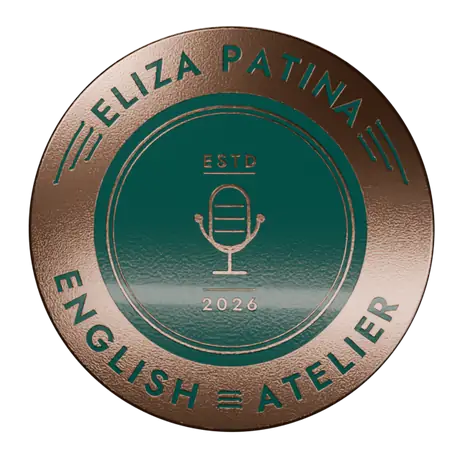
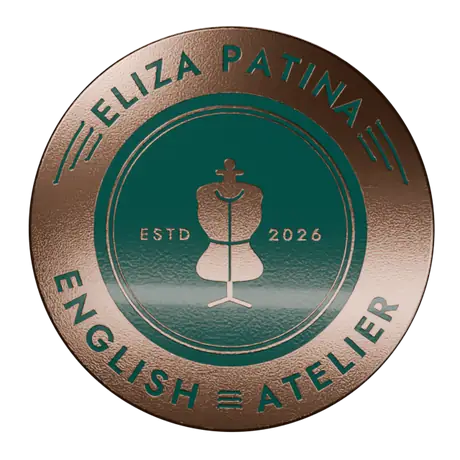
fix: 「一般」に表記を統一、翻訳ガイドの重なりを修正、オープニングをゆっくりに、エンブレム中央をトルソーに (#17)
- コースの名前を「一般」に統一
- 使い方ガイド：照らす場所が説明の札に隠れるときだけ、札を画面の上へ
- オープニングを約5.5秒に（回り込みが見えるように、ひとことを読める間だけ止める）
- エンブレム中央をマイクから仕立て屋のトルソーに（Blender で再レンダリング）

Claude-Session: https://claude.ai/code/session_01WAw9FbA9Try3Ma8VPoG1QR

Changed region(s): [[0.3043, 0.3348, 0.7, 0.7]]

diff --git a/src/components/Opening.tsx b/src/components/Opening.tsx
@@ -22,13 +22,14 @@ function preload(src: string): Promise<void> {
  * 起動時のオープニング。ブランドの考え（新しい銅 → 使い込んで緑青）をそのまま動きにする。
  * 1. 磨いたばかりの銅に緑青色のエナメルを埋めたエンブレム（ヴィンテージの看板の組み方）が、斜めから正面へ回り込む
  * 2. 年月を経た姿（銅のくすみ・酸化の斑点）が左上から広がり、光がひと筋流れる
- * 3. 線とひとことが出て、アプリへ
+ * 3. 線とひとことが出て、読める間だけ止まってから、アプリへ（全体で約5.5秒）
  * タップでいつでも飛ばせる。「視差効果を減らす」の設定のときは動かさずに短く見せる。
  */
 export function Opening({ onDone }: { onDone: () => void }) {
   const root = useRef<HTMLDivElement>(null)
   const medal = useRef<HTMLDivElement>(null)
   const copper = useRef<HTMLImageElement>(null)
+  const copperNext = useRef<HTMLImageElement>(null)
   const patina = useRef<HTMLDivElement>(null)
   const sheen = useRef<HTMLDivElement>(null)
   const line = useRef<HTMLDivElement>(null)
@@ -60,13 +61,13 @@ export function Opening({ onDone }: { onDone: () => void }) {
       ])
       const { gsap } = await import('gsap')
       if (!alive) return
-      const els = { r: root.current!, m: medal.current!, c: copper.current!, p: patina.current!, s: sheen.current!, l: line.current!, t: tagline.current! }
+      const els = { r: root.current!, m: medal.current!, c: copper.current!, n: copperNext.current!, p: patina.current!, s: sheen.current!, l: line.current!, t: tagline.current! }
 
       if (reduced) {
         gsap.set([els.m, els.p, els.l, els.t], { opacity: 1, clearProps: 'transform' })
         els.p.style.setProperty('--r', '160%')
         const tl = gsap.timeline({ onComplete: finish })
-        tl.to(els.r, { opacity: 0, duration: 0.4, delay: 1.1 })
+        tl.to(els.r, { opacity: 0, duration: 0.4, delay: 2 })
         kill = () => void tl.kill()
         skipRef.current = () => {
           tl.kill()
@@ -78,35 +79,39 @@ export function Opening({ onDone }: { onDone: () => void }) {
       const frame = { f: 0 }
       let shown = -1
       const tl = gsap.timeline({ defaults: { ease: 'power3.out' }, onComplete: finish })
-      tl.fromTo(els.m, { opacity: 0, y: 22, scale: 0.86 }, { opacity: 1, y: 0, scale: 1, duration: 1.0 }, 0)
-        // 3D の連番をめくって、メダルを斜めから正面へ回す
+      // 先に姿を見せてから回す（回り込みが見えるように）
+      tl.fromTo(els.m, { opacity: 0 }, { opacity: 1, duration: 0.8, ease: 'power2.out' }, 0)
+        .fromTo(els.m, { y: 26, scale: 0.86 }, { y: 0, scale: 1, duration: 1.6 }, 0)
+        // 3D の連番をめくって、メダルを斜めから正面へ回す（となりのコマと重ねてなめらかに）
         .to(
           frame,
           {
             f: FRAMES - 1,
-            duration: 0.85,
-            ease: 'power2.out',
+            duration: 2.0,
+            ease: 'sine.inOut',
             onUpdate: () => {
-              const k = Math.round(frame.f)
+              const k = Math.min(Math.floor(frame.f), FRAMES - 1)
               if (k !== shown) {
                 shown = k
                 els.c.src = frameSrc(k)
+                els.n.src = frameSrc(Math.min(k + 1, FRAMES - 1))
               }
+              els.n.style.opacity = String(frame.f - k)
             },
           },
           0,
         )
         // 緑青が左上から広がる（年月の早送り）
-        .fromTo(els.p, { '--r': '0%' }, { '--r': '160%', duration: 1.05, ease: 'power1.inOut' }, 0.8)
+        .fromTo(els.p, { '--r': '0%' }, { '--r': '160%', duration: 1.7, ease: 'power1.inOut' }, 2.1)
         // 光がひと筋、メダルの上を流れる
-        .fromTo(els.s, { xPercent: -120, opacity: 0 }, { xPercent: 120, opacity: 1, duration: 0.9, ease: 'power2.inOut' }, 1.15)
-        .to(els.s, { opacity: 0, duration: 0.25 }, 1.8)
+        .fromTo(els.s, { xPercent: -120, opacity: 0 }, { xPercent: 120, opacity: 1, duration: 1.2, ease: 'power2.inOut' }, 2.7)
+        .to(els.s, { opacity: 0, duration: 0.35 }, 3.6)
         // 細い線が伸び、ひとこと（字間を詰めながら）
-        .fromTo(els.l, { scaleX: 0, opacity: 0 }, { scaleX: 1, opacity: 1, duration: 0.6, ease: 'expo.out' }, 1.35)
-        .fromTo(els.t, { opacity: 0, y: 6, letterSpacing: '0.3em' }, { opacity: 1, y: 0, letterSpacing: '0.06em', duration: 0.9, ease: 'expo.out' }, 1.45)
-        // アプリへ
-        .to(els.m, { scale: 0.96, duration: 0.5, ease: 'power2.in' }, 2.55)
-        .to(els.r, { opacity: 0, duration: 0.5, ease: 'power2.in' }, 2.6)
+        .fromTo(els.l, { scaleX: 0, opacity: 0 }, { scaleX: 1, opacity: 1, duration: 0.8, ease: 'expo.out' }, 3.0)
+        .fromTo(els.t, { opacity: 0, y: 6, letterSpacing: '0.3em' }, { opacity: 1, y: 0, letterSpacing: '0.06em', duration: 1.2, ease: 'expo.out' }, 3.15)
+        // ひとことを読める間だけ止めてから、アプリへ
+        .to(els.m, { scale: 0.96, duration: 0.6, ease: 'power2.in' }, 5.0)
+        .to(els.r, { opacity: 0, duration: 0.6, ease: 'power2.in' }, 5.05)
       kill = () => void tl.kill()
       skipRef.current = () => {
         tl.kill()
@@ -132,6 +137,7 @@ export function Opening({ onDone }: { onDone: () => void }) {
     >
       <div ref={medal} className="relative aspect-square w-[min(80vw,310px)] opacity-0">
         <img ref={copper} src={frameSrc(0)} alt="" draggable={false} className="absolute inset-0 h-full w-full" />
+        <img ref={copperNext} src={frameSrc(1)} alt="" draggable={false} className="absolute inset-0 h-full w-full opacity-0" />
         {/* 緑青の姿を、円の広がるマスクで重ねていく */}
         <div
           ref={patina}

diff --git a/src/components/Tour.tsx b/src/components/Tour.tsx
@@ -1,4 +1,4 @@
-import { useCallback, useEffect, useLayoutEffect, useState, type ReactNode } from 'react'
+import { useCallback, useEffect, useLayoutEffect, useRef, useState, type ReactNode } from 'react'
 import { createPortal } from 'react-dom'
 import { CharImage } from './Guide'
 import { Button, cx } from './ui'
@@ -40,7 +40,7 @@ function findTarget(name?: string): HTMLElement | null {
  * 使い方ツアー（コーチマーク）。画面を暗くして、説明する場所だけを明るく切り抜く。
  * 「次へ」で進み、「スキップ」でいつでも終われる。終わったら onDone。
  * 説明カードはいつも同じ場所（タブバーのすぐ上）に下端をそろえて置き、「次へ」が動かないようにする。
- * 照らす場所はカードの上に見えるよう、必要なら画面を送る。
+ * 照らす場所はカードの上に見えるよう、必要なら画面を送る。ページの終わりで送れず隠れてしまうときだけ、カードを上に置く。
  */
 export function Tour({ steps, onDone }: { steps: TourStep[]; onDone: () => void }) {
   const guide = useSettings((s) => s.guide)
@@ -48,6 +48,8 @@ export function Tour({ steps, onDone }: { steps: TourStep[]; onDone: () => void 
   const [rect, setRect] = useState<Rect | null>(null)
   const [vh, setVh] = useState(() => window.innerHeight)
   const [dock, setDock] = useState<number | null>(null)
+  const card = useRef<HTMLDivElement>(null)
+  const [cardH, setCardH] = useState(CARD_EST)
   const step = steps[i]
   const last = i === steps.length - 1
 
@@ -57,6 +59,8 @@ export function Tour({ steps, onDone }: { steps: TourStep[]; onDone: () => void 
     setVh((v) => (v === h ? v : h))
     const d = dockOffset(h)
     setDock((v) => (v === d ? v : d))
+    const ch = card.current?.offsetHeight
+    if (ch) setCardH((v) => (Math.abs(v - ch) < 1 ? v : ch))
     const el = findTarget(step?.target)
     if (!el) return setRect((v) => (v === null ? v : null))
     const r = el.getBoundingClientRect()
@@ -100,7 +104,13 @@ export function Tour({ steps, onDone }: { steps: TourStep[]; onDone: () => void 
 
   if (!step) return null
   // 説明カードは、どのステップでも下端の位置をそろえる（ボタンが同じ場所に来る）
-  const cardStyle = { bottom: dock === null ? 'calc(env(safe-area-inset-bottom) + 16px)' : Math.min(dock, vh - 200) }
+  const bottom = dock === null ? 40 : Math.min(dock, vh - 200)
+  // ページの終わりに近くて画面を送れず、照らす場所がカードに隠れるときだけ、カードを画面の上に置く
+  const cardBottom = vh - bottom
+  const covered = !!rect && rect.top < cardBottom && rect.top + rect.height > cardBottom - cardH - 8
+  const cardStyle = covered
+    ? { top: 'calc(env(safe-area-inset-top) + 12px)' }
+    : { bottom: dock === null ? 'calc(env(safe-area-inset-bottom) + 16px)' : bottom }
 
   return createPortal(
     <div className="fixed inset-0 z-[70]" role="dialog" aria-modal="true" aria-label="使い方ガイド">
@@ -114,6 +124,7 @@ export function Tour({ steps, onDone }: { steps: TourStep[]; onDone: () => void 
       )}
       <div
         key={i}
+        ref={card}
         className="absolute inset-x-4 mx-auto max-w-[360px] animate-rise rounded-[20px] border border-line bg-surface p-4 shadow-float"
         style={cardStyle}
       >

diff --git a/src/data/research.ts b/src/data/research.ts
@@ -63,7 +63,7 @@ export const EVIDENCE: Evidence[] = [
     id: 'interleave',
     title: 'インターリーブ（混ぜて練習）',
     finding: '種類の異なる問題を混ぜて練習すると、区別して使い分ける力が伸びやすい。第二言語の文法練習でも、混ぜて練習した方が長期保持に優れていた。',
-    inApp: '選んだコース（一般会話・ビジネス・保線）の単語と、復習・新出語、選択・リスニング・スペルなどの出題形式を混ぜて出題します。',
+    inApp: '選んだコース（一般・ビジネス・IT・鉄道）の単語と、復習・新出語、選択・リスニング・スペルなどの出題形式を混ぜて出題します。',
     refs: [
       { cite: 'Rohrer, D., & Taylor, K. (2007). The shuffling of mathematics problems improves learning. Instructional Science, 35(6), 481–498.' },
       { cite: 'Nakata, T., & Suzuki, Y. (2019). Mixing grammar exercises facilitates long-term retention: Effects of blocking, interleaving, and increasing practice. The Modern Language Journal, 103(3), 629–647.', url: 'https://doi.org/10.1111/modl.12581' },

diff --git a/src/components/Brand.tsx b/src/components/Brand.tsx
@@ -43,6 +43,9 @@ export function BrandStory() {
         <p className="text-muted">
           My Fair <span className="en">Lady</span> と、<span className="en">Lady</span> Liberty。ふたりの「英語のレディ」をひとつの名前に。単語の覚え具合も、学習中は銅色、定着すると緑青色で表しています。
         </p>
+        <p className="text-muted">
+          エンブレムは古い銅の看板の組み方で、中央は仕立て屋のトルソー。イライザが話し方を仕立て直したように、あなたの英語を一着ずつ仕立てていくアトリエ（<span className="en">English Atelier</span>）です。
+        </p>
       </div>
     </details>
   )

diff --git a/src/components/AccentPicker.tsx b/src/components/AccentPicker.tsx
@@ -46,7 +46,7 @@ export function AccentPicker({ neural }: { neural: boolean }) {
   return (
     <div>
       <p className="text-[15px]">英語の発音（国・地域）</p>
-      <p className="mt-0.5 text-[11.5px] leading-relaxed text-muted">一般会話・ビジネス・IT の読み上げに使います。タップして声を選び、試聴できます。</p>
+      <p className="mt-0.5 text-[11.5px] leading-relaxed text-muted">一般・ビジネス・IT の読み上げに使います。タップして声を選び、試聴できます。</p>
       <div className="mt-2.5 overflow-hidden rounded-[14px] border border-line">
         {ACCENTS.map((a, k) => {
           const on = s.accent === a.id

diff --git a/src/pages/Settings.tsx b/src/pages/Settings.tsx
@@ -218,7 +218,7 @@ export default function Settings() {
             <p className="mt-1.5 text-[11.5px] leading-relaxed text-muted">FSRS は、この確率で思い出せる直前に復習を入れます。高くすると復習の回数が増えます。</p>
           </div>
           <div>
-            <p className="text-[15px]">新しい単語のレベル（一般会話・ビジネス）</p>
+            <p className="text-[15px]">新しい単語のレベル（一般・ビジネス）</p>
             <p className="mt-2 text-[12px] text-muted">下限</p>
             <div className="mt-1">
               <Segmented

diff --git a/src/pages/Scenes.tsx b/src/pages/Scenes.tsx
@@ -15,7 +15,7 @@ const INTRO: Record<SceneGroup, { who: CharId; pose: Pose; text: string }> = {
   rail: { who: 'kinako', pose: 'cheer', text: '保線現場と鉄道ビジネスの英会話だ。安全に関わる交信は必ず復唱（repeat back）だぞ！' },
 }
 
-const GROUP_LABEL: Record<SceneGroup, string> = { daily: '日常', business: 'ビジネス', it: 'IT', rail: '鉄道' }
+const GROUP_LABEL: Record<SceneGroup, string> = { daily: '一般', business: 'ビジネス', it: 'IT', rail: '鉄道' }
 
 function initialGroup(): SceneGroup {
   try {

diff --git a/src/data/scenes.ts b/src/data/scenes.ts
@@ -7,7 +7,7 @@ import type { Accent } from '@/lib/accents'
  * タスク中心の言語指導（TBLT）に基づき、「目的のある場面」で使う表現をまとまりで学ぶ。
  */
 export const SCENES: Scene[] = [
-  // ───────────── 日常会話 ─────────────
+  // ───────────── 一般（会話・旅行・暮らし） ─────────────
   {
     id: 'd-intro',
     group: 'daily',

diff --git a/src/lib/types.ts b/src/lib/types.ts
@@ -73,9 +73,9 @@ export const CATEGORIES: {
 }[] = [
   {
     key: 'general',
-    label: '一般会話',
+    label: '一般',
     short: '一般',
-    desc: '日常の会話・旅行・暮らしで使う高頻度の英語',
+    desc: '会話・旅行・暮らしでよく使う英語（いちばん基本のコース）',
     source: 'NGSL（一般英語の約92%をカバーする高頻度語）',
     scene: 'daily',
     text: 'text-gen',

diff --git a/src/components/PracticeControls.tsx b/src/components/PracticeControls.tsx
@@ -6,7 +6,7 @@ import { Chip, Segmented, Toggle } from './ui'
 export const formatRate = (r: number) => `${r.toFixed(2).replace(/0$/, '')}×`
 
 export const SOURCES: { key: Source; label: string }[] = [
-  { key: 'general', label: '一般会話' },
+  { key: 'general', label: '一般' },
   { key: 'business', label: 'ビジネス' },
   { key: 'it', label: 'IT' },
   { key: 'rail', label: '鉄道' },

diff --git a/scripts/blender/emblem_art.py b/scripts/blender/emblem_art.py
@@ -9,8 +9,8 @@
 
 図案（1000 × 1000 の座標で設計）:
   外周の帯：上に「ELIZA PATINA」、下に「ENGLISH ATELIER」（字は内向き）、左右にスピード線を3本ずつ
-  内側：緑青のエナメルの円に、銅の二重線。中央に 1930 年代のリボンマイクを一筆の線で（イライザが
-        ヒギンズ教授の蓄音機で発音を録られ、話し方で変わっていく物語から）。上下に「ESTD」「2026」と罫線
+  内側：緑青のエナメルの円に、銅の二重線。中央に仕立て屋のトルソー（銅の面に緑青の縫い目）、
+        左右に「ESTD」「2026」。看板の中央の絵（ハンガーなど）のように、一目で何の店かわかる形にする
 フォントは幾何学的なサンセリフ（Jost, SIL OFL 1.1。npm の @fontsource/jost の woff2 を TTF にして使う）。
 """
 from __future__ import annotations
@@ -121,24 +121,88 @@ def text_center(d, s: str, cx: float, cy: float, size: float, tracking: float, f
         x += w + p(tracking)
 
 
-def microphone(d: ImageDraw.ImageDraw, fill: int, stroke: float = 9):
-    """1930 年代のリボンマイク（丸みのあるカプセル・横の格子・U字の支え・脚）を一筆の太さの線で"""
-    sw = int(p(stroke))
-    # カプセル
-    d.rounded_rectangle([p(449), p(386), p(551), p(556)], radius=p(51), outline=fill, width=sw)
-    # 格子
-    for y in (440, 471, 502):
-        line(d, 466, y, 534, y, 5.5, fill)
-    # U 字の支え（左右の軸の点から下へ回り込む）
-    c = (500, 470)
-    r = 76
-    d.arc([p(c[0] - r), p(c[1] - r), p(c[0] + r), p(c[1] + r)], 0, 180, fill=fill, width=sw)
-    for x in (c[0] - r, c[0] + r):
-        rr = p(11)
-        d.ellipse([p(x) - rr, p(c[1]) - rr, p(x) + rr, p(c[1]) + rr], fill=fill)
-    # 脚と台
-    line(d, 500, 546, 500, 598, stroke, fill)
-    line(d, 462, 604, 538, 604, stroke, fill)
+def bez(p0, p1, p2, p3, n: int = 48) -> list[tuple[float, float]]:
+    """3次ベジェ曲線を点の列に（設計の座標のまま）"""
+    pts = []
+    for i in range(n + 1):
+        t = i / n
+        u = 1 - t
+        pts.append((
+            u**3 * p0[0] + 3 * u * u * t * p1[0] + 3 * u * t * t * p2[0] + t**3 * p3[0],
+            u**3 * p0[1] + 3 * u * u * t * p1[1] + 3 * u * t * t * p2[1] + t**3 * p3[1],
+        ))
+    return pts
+
+
+def path(*segs) -> list[tuple[float, float]]:
+    """ベジェ（4点の組）をつないで1本の線に"""
+    pts: list[tuple[float, float]] = []
+    for sg in segs:
+        q = bez(*sg)
+        pts.extend(q if not pts else q[1:])
+    return pts
+
+
+def mirror(pts):
+    return [(1000 - x, y) for x, y in pts]
+
+
+def stroke(d: ImageDraw.ImageDraw, pts, width: float, fill: int, closed: bool = False):
+    """点の列を、つなぎ目と両端の丸い線で引く"""
+    if closed:
+        pts = list(pts) + [pts[0]]
+    rr = p(width) / 2
+    for (x1, y1), (x2, y2) in zip(pts, pts[1:]):
+        d.line([p(x1), p(y1), p(x2), p(y2)], fill=fill, width=int(p(width)))
+    for x, y in pts:
+        d.ellipse([p(x) - rr, p(y) - rr, p(x) + rr, p(y) + rr], fill=fill)
+
+
+def dot(d, x, y, r, fill):
+    d.ellipse([p(x - r), p(y - r), p(x + r), p(y + r)], fill=fill)
+
+
+def torso_outline() -> list[tuple[float, float]]:
+    """トルソーの輪郭（首の付け根の右から時計回りに、左右対称）。肩はなで肩に、腕の付け根は丸く切る"""
+    right = path(
+        ((511, 420), (524, 421), (538, 424), (547, 428)),
+        ((547, 428), (557, 432), (559, 442), (555, 450)),
+        ((555, 450), (551, 459), (557, 470), (553, 484)),
+        ((553, 484), (549, 500), (533, 510), (533, 522)),
+        ((533, 522), (533, 538), (557, 550), (557, 568)),
+        ((557, 568), (557, 580), (549, 586), (537, 588)),
+        ((537, 588), (525, 590), (512, 591), (500, 591)),
+    )
+    return right + list(reversed(mirror(right)))[1:]
+
+
+def torso_base(d: ImageDraw.ImageDraw, fill: int):
+    """首・上のつまみ・支柱と三脚"""
+    d.rectangle([p(489), p(402), p(511), p(422)], fill=fill)
+    line(d, 480, 403, 520, 403, 9, fill)
+    dot(d, 500, 389, 10, fill)
+    line(d, 500, 591, 500, 620, 10, fill)
+    line(d, 500, 621, 466, 633, 8, fill)
+    line(d, 500, 621, 534, 633, 8, fill)
+
+
+def mark_dressform(d: ImageDraw.ImageDraw, fill: int):
+    """
+    仕立て屋のトルソー（ドレスフォーム）。銅の面に、緑青の細い線で衿ぐり・前中心・ウエストのテープ。
+    アトリエで一着を形にしていくように、自分の英語を仕立てていく（イライザが話し方を仕立て直した物語から）
+    """
+    body = torso_outline()
+    d.polygon([(p(x), p(y)) for x, y in body], fill=fill)
+    stroke(d, body, 2, fill, closed=True)
+    torso_base(d, fill)
+    bg = 255 - fill
+    stroke(d, path(((477, 436), (485, 456), (515, 456), (523, 436))), 5, bg)
+    stroke(d, [(500, 456), (500, 589)], 4, bg)
+    stroke(d, path(((467, 520), (488, 527), (512, 527), (533, 520))), 5, bg)
+
+
+MARK_SCALE = 1.42  # 上の図形は 1000 の座標で小さく描き、この倍率で大きくして置く
+MARK_CY = 510  # 拡大の中心（マークの縦の中心）
 
 
 def main():
@@ -164,12 +228,15 @@ def main():
     # 銅の二重線
     ring(d, 306, 7, 0)
     ring(d, 289, 3.5, 0)
-    # ESTD・罫線・マイク・2026（銅）
-    text_center(d, "ESTD", 500, 330, 44, 9, 0)
-    line(d, 438, 360, 562, 360, 4, 0)
-    microphone(d, 0)
-    line(d, 438, 646, 562, 646, 4, 0)
-    text_center(d, "2026", 500, 682, 44, 9, 0)
+    # 中央のマーク（銅）。別の層に描いて、中心を保ったまま大きくして重ねる
+    layer = Image.new("L", (W, W), 0)
+    mark_dressform(ImageDraw.Draw(layer), 255)
+    big = layer.resize((int(W * MARK_SCALE), int(W * MARK_SCALE)), Image.LANCZOS)
+    ox, oy = p(500) * (MARK_SCALE - 1), p(MARK_CY) * (MARK_SCALE - 1)
+    mask.paste(0, (0, 0), big.crop((int(ox), int(oy), int(ox) + W, int(oy) + W)))
+    # マークの左右に ESTD と 2026（銅）
+    text_center(d, "ESTD", 340, MARK_CY, 42, 8, 0)
+    text_center(d, "2026", 660, MARK_CY, 42, 8, 0)
 
     # 円の外は使わない（透過の外側）
     edge = Image.new("L", (W, W), 0)

diff --git a/scripts/blender/logo.py b/scripts/blender/logo.py
@@ -8,7 +8,7 @@
   <出力dir>/patina.png                               年月を経た姿（銅がくすみ、縁や地に酸化の斑点。最後の連番と同じ構図）
 続けて scripts/blender/postprocess_logo.py で public/opening/ の WebP に変換する。
 
-図案（文字・スピード線・中央のマイク）は scripts/blender/emblem_art.py が描く emblem-mask.png（白＝エナメル、黒＝銅）。
+図案（文字・スピード線・中央のトルソー）は scripts/blender/emblem_art.py が描く emblem-mask.png（白＝エナメル、黒＝銅）。
 エナメルは銅より少し低く埋め込み、つやのある面にする。
 """
 from __future__ import annotations
